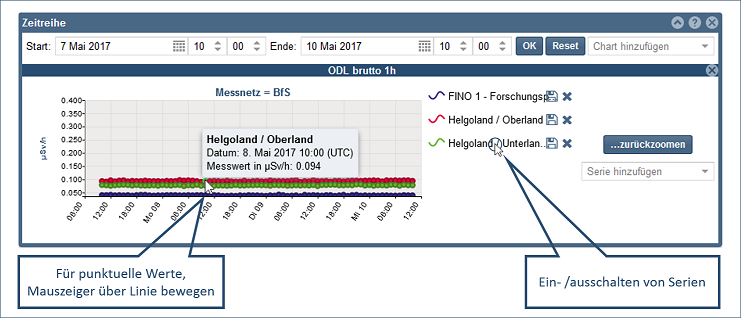
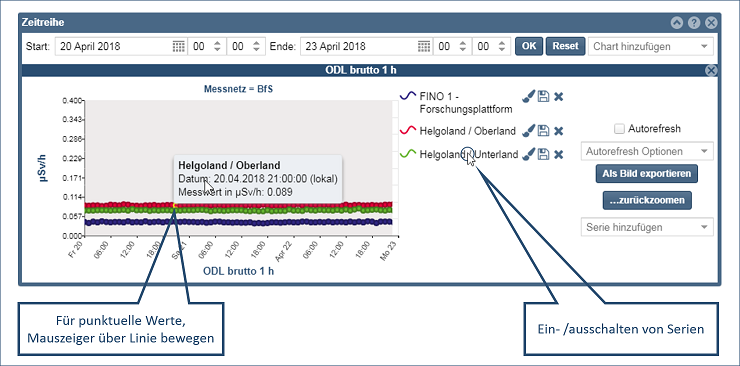
updated classic DE-helpPage

Changed region(s): [[0.0, 0.0283, 0.9946, 0.9906], [0.7149, 0.9623, 0.9635, 0.9906]]

diff --git a/src/app/view/window/HelpModel.js b/src/app/view/window/HelpModel.js
@@ -98,6 +98,16 @@ Ext.define('Koala.view.window.HelpModel', {
                         text: '{map.geoObjects.title}',
                         content: '{map.geoObjects.html}',
                         leaf: true
+                    }, {
+                        id: 'mapCartoWindows',
+                        text: '{map.cartoWindows.title}',
+                        content: '{map.cartoWindows.html}',
+                        leaf: true
+                    }, {
+                        id: 'mapTimeSeries',
+                        text: '{map.timeSeries.title}',
+                        content: '{map.timeSeries.html}',
+                        leaf: true
                     }]
                 }, {
                     id: 'tools',
@@ -165,6 +175,10 @@ Ext.define('Koala.view.window.HelpModel', {
                         content: '{mapNavigation.initMapView.html}',
                         leaf: true
                     }, {
+                        text: '{mapNavigation.measure.title}',
+                        content: '{mapNavigation.measure.html}',
+                        leaf: true
+                    }, {
                         text: '{mapNavigation.fullScreen.title}',
                         content: '{mapNavigation.fullScreen.html}',
                         leaf: true
@@ -172,10 +186,6 @@ Ext.define('Koala.view.window.HelpModel', {
                         id: 'mapNavigationPermalink',
                         text: '{mapNavigation.permaLink.title}',
                         content: '{mapNavigation.permaLink.html}',
-                        leaf: true
-                    }, {
-                        text: '{mapNavigation.openLegend.title}',
-                        content: '{mapNavigation.openLegend.html}',
                         leaf: true
                     }]
                 }, {

diff --git a/src/classic/src/view/window/HelpWindow.js b/src/classic/src/view/window/HelpWindow.js
@@ -79,8 +79,8 @@ Ext.define('Koala.view.window.HelpWindow', {
         var currentViewSize = Ext.getBody().getViewSize();
         me.callParent();
 
-        me.setHeight(currentViewSize.height - 400);
-        me.setWidth(currentViewSize.width - 400);
+        me.setHeight(currentViewSize.height - 450);
+        me.setWidth(currentViewSize.width - 900);
     },
 
     //select default node 'quick-reference'

diff --git a/src/classic/src/view/window/TimeSeriesWindow.js b/src/classic/src/view/window/TimeSeriesWindow.js
@@ -60,7 +60,7 @@ Ext.define('Koala.view.window.TimeSeriesWindow', {
             tooltip: '{helpTooltip}'
         },
         callback: function() {
-            Koala.util.Help.showHelpWindow('mapGeoObjects', 'map');
+            Koala.util.Help.showHelpWindow('mapTimeSeries', 'map');
         }
     }],
     defaults: {
